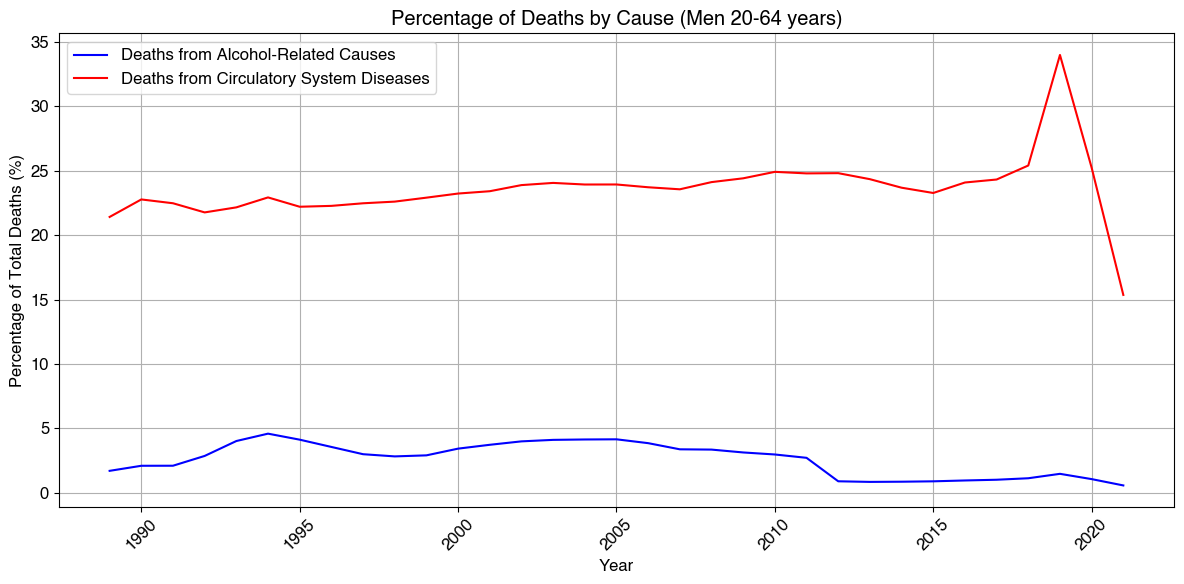
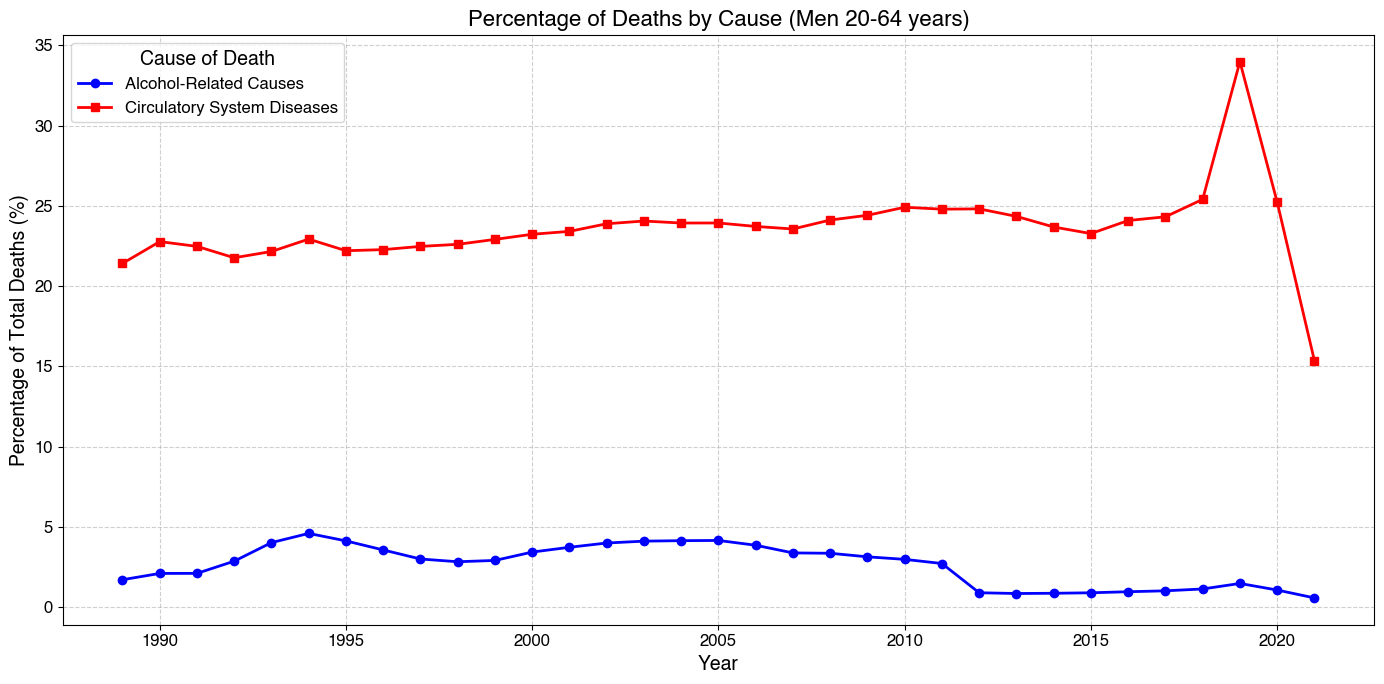
Rewrite some mortality sections, improve plots

diff --git a/_includes/plots/life_expectancy.html b/_includes/plots/life_expectancy.html
@@ -1,0 +1,61 @@
+<!DOCTYPE html>
+<html lang="en">
+  <head>
+    <meta charset="utf-8">
+    <title>Life Expectancy in Russia</title>
+    <style>
+      html, body {
+        box-sizing: border-box;
+        display: flow-root;
+        height: 100%;
+        margin: 0;
+        padding: 0;
+      }
+    </style>
+    <script type="text/javascript" src="https://cdn.bokeh.org/bokeh/release/bokeh-3.7.2.min.js"></script>
+    <script type="text/javascript">
+        Bokeh.set_log_level("info");
+    </script>
+  </head>
+  <body>
+    <div id="e7f140a5-0734-4186-a19c-f9ebe127f05f" data-root-id="p13568" style="display: contents;"></div>
+  
+    <script type="application/json" id="da0782c2-43e9-4967-a7d0-60eca1fd7c47">
[1 lines of base64/hex data omitted]
+    </script>
+    <script type="text/javascript">
+      (function() {
+        const fn = function() {
+          Bokeh.safely(function() {
+            (function(root) {
+              function embed_document(root) {
+              const docs_json = document.getElementById('da0782c2-43e9-4967-a7d0-60eca1fd7c47').textContent;
+              const render_items = [{"docid":"08acd600-8ed8-4c0b-a3ba-e08f5a8322fe","roots":{"p13568":"e7f140a5-0734-4186-a19c-f9ebe127f05f"},"root_ids":["p13568"]}];
+              root.Bokeh.embed.embed_items(docs_json, render_items);
+              }
+              if (root.Bokeh !== undefined) {
+                embed_document(root);
+              } else {
+                let attempts = 0;
+                const timer = setInterval(function(root) {
+                  if (root.Bokeh !== undefined) {
+                    clearInterval(timer);
+                    embed_document(root);
+                  } else {
+                    attempts++;
+                    if (attempts > 100) {
+                      clearInterval(timer);
+                      console.log("Bokeh: ERROR: Unable to run BokehJS code because BokehJS library is missing");
+                    }
+                  }
+                }, 10, root)
+              }
+            })(window);
+          });
+        };
+        if (document.readyState != "loading") fn();
+        else document.addEventListener("DOMContentLoaded", fn);
+      })();
+    </script>
+  </body>
+</html>

diff --git a/_includes/andrej.html b/_includes/andrej.html
@@ -1,57 +1,58 @@
 <section>
   <p>
-    The mortality crisis sweeping Russia is most dominant among working age males. TODO: Figure x
-    shows the death rates among working age population and we can observe a large gap between men
-    and women. The mortality peaked in 1994. with around 20 deaths per 1000 population. It only
-    started declining after 2005. Furthermore the high death rates are naturally reflected in the
-    life expectancy. TODO: In figure x we can see the life expectancy of men in Russia is the lowest
-    among the countries selected. Interestingly the life expectancy is also lower than the world
-    average. This is again contrasted by the life expectancy of women which is around 10 years
-    higher, and very close to life expectancies in other developed countries like the US and
-    Denmark. Because of this we will mostly focus on men and the alcohol effects on their mortality.
+    The mortality crisis sweeping Russia displays a striking gender disparity where working age men
+    bear most of the burden, the term "male mortality cirsis" was given to this trend. TODO: Figure
+    X illustrates the dramatic gap between male and female death rates among the working-age
+    population, with male mortality peaking at approximately 20 deaths per 1,000 in the mid-1990s.
+    The mortality started delining after 2005 this could be a possible connection to the regulations
+    introduced in 2006. This gender disparity is further reflected in life expectancy figures. As
+    shown in Figure Y, Russian men's life expectancy fell to a staggering 57.6 years in 1994,
+    placing it below the world average and creating one of the largest gender gaps in life
+    expectancy globally, with Russian women living approximately 10 years longer being comprable to
+    the life of expectancy in developed nations.
   </p>
 
   <div style="display: flex; flex-direction: column; gap: 20px; margin: 2em 0">
-    <div style="display: flex; align-items: center; gap: 20px; flex-wrap: wrap">
-      <div style="flex: 0 0 45%">
-        <img
-          src="assets/img/mortality/death_rate_working_age.png"
-          alt="Time series death rate plot for working age population"
-          style="width: 100%; height: auto; border: 1px solid #ccc"
-        />
-      </div>
-      <div style="flex: 0 0 45%">
-        <img
-          src="assets/img/mortality/life_expectancy_sex.png"
-          alt="Life expectancy by sex in Russia"
-          style="width: 100%; height: auto; border: 1px solid #ccc"
-        />
-      </div>
+    <div style="display: flex; align-items: center; justify-content: center">
+      <img
+        src="assets/img/mortality/death_rate_working_age.png"
+        alt="Time series death rate plot for working age population"
+        style="width: 80%; height: auto; border: 1px solid #ccc"
+      />
     </div>
     <div style="font-size: 0.9em; color: #555; line-height: 1.5; text-align: center">
       <strong>Figure x:</strong> Average death rates among working age population per 1,000
-      individuals and life expectancy by sex in Russia from 1989 to 2021.
+      individuals in Russia by gender.
+    </div>
+  </div>
+
+  <div style="display: flex; flex-direction: column; gap: 20px; margin: 2em 0">
+    <div style="display: flex; justify-content: center">
+      {% include plots/life_expectancy.html %}
+    </div>
+    <div style="font-size: 0.9em; color: #555; line-height: 1.5; text-align: center">
+      <strong>Figure x:</strong> Life expectancy by gender and difference between life expectancy
+      for women and men in Russia and selected countries. Click on the legend to hide/unhide countries.
     </div>
   </div>
 
   <p>
-    In the beginning, figure 1, we have seen that Russia is the leading country in terms of
-    alcohol-related deaths. Using the offical Russian statistics, we can see that the alcohol
-    related deaths for working age males acounted for around 4-5% of all deaths during the peaks in
-    1990s. Compared to the leading cause of death which is circulatory diseases that was around 23%,
-    this is a significant number. It is also important to note that the alcohol-related deaths are
-    deaths directly caused by alcohol consumption by the ICD-10 classification. This means that
-    there are many more deaths that are indirectly caused by alcohol consumption e.g. traffic
-    accidents which are not included in this number. This means that the actual number of deaths is
-    higher, and a case study in early 2000s estimated that hazaradous drinking in a city contributed
-    to 40% of all deaths (https://pubmed.ncbi.nlm.nih.gov/17574092/).
+    In the introduction (Figure 1), we saw that Russia leads in alcohol-related deaths. According to
+    official Russian statistics, alcohol-related deaths among working-age males accounted for around
+    4-5% of all deaths during the peak in the 1990s. This was approximately five times lower than
+    the leading cause of death—diseases of the circulatory system—which accounted for about 23%.
+    It's important to note that alcohol-related deaths here refer only to those directly attributed
+    to alcohol consumption under the ICD-10 classification. This excludes many indirectly related
+    fatalities, such as traffic accidents. As a result, the actual number is higher; a case study in
+    the early 2000s estimated that hazardous drinking contributed to 40% of all deaths in one
+    Russian city (https://pubmed.ncbi.nlm.nih.gov/17574092/).
   </p>
   <div style="display: flex; flex-direction: column; gap: 20px; margin: 2em 0">
     <div style="display: flex; align-items: center; justify-content: center">
       <img
         src="assets/img/mortality/cause_percentage_of_total.png"
         alt="Percentage of total deaths by cause in Russia"
-        style="width: 60%; height: auto; border: 1px solid #ccc"
+        style="width: 80%; height: auto; border: 1px solid #ccc"
       />
     </div>
     <div style="font-size: 0.9em; color: #555; line-height: 1.5; text-align: center">
@@ -59,14 +60,11 @@
     </div>
   </div>
   <p>
-    The plot illustrates a strong correlation between alcohol consumption and mortality rates among
-    working-age men in Russia. From the early 1990s to the mid-2000s, both alcohol consumption
-    (measured in liters per capita) and mortality rates (per 1,000 population) exhibit a similar
-    trend, with peaks in the mid-1990s and a gradual decline after 2005. This parallel movement
-    suggests that hazardous drinking significantly contributed to the high mortality rates during
-    this period. The decline in both metrics after 2005 aligns with public health interventions and
-    stricter alcohol regulations, highlighting the impact of reducing alcohol consumption on
-    improving mortality outcomes. TODO: rephrase, sources
+    The figure x illustrates the correlation between alcohol consumption and mortality rates among
+    working-age men in Russia from 1990 to 2021. The correlation is particularly evident during
+    three periods: the sharp mortality increase following the Soviet collapse (1991-1994), the
+    temporary improvement during the economic crisis (1998-1999), and the sustained decline after
+    the implementation of alcohol control policies (post-2006).
   </p>
   <div style="display: flex; flex-direction: column; gap: 20px; margin: 2em 0">
     <div style="display: flex; align-items: center; justify-content: center">
